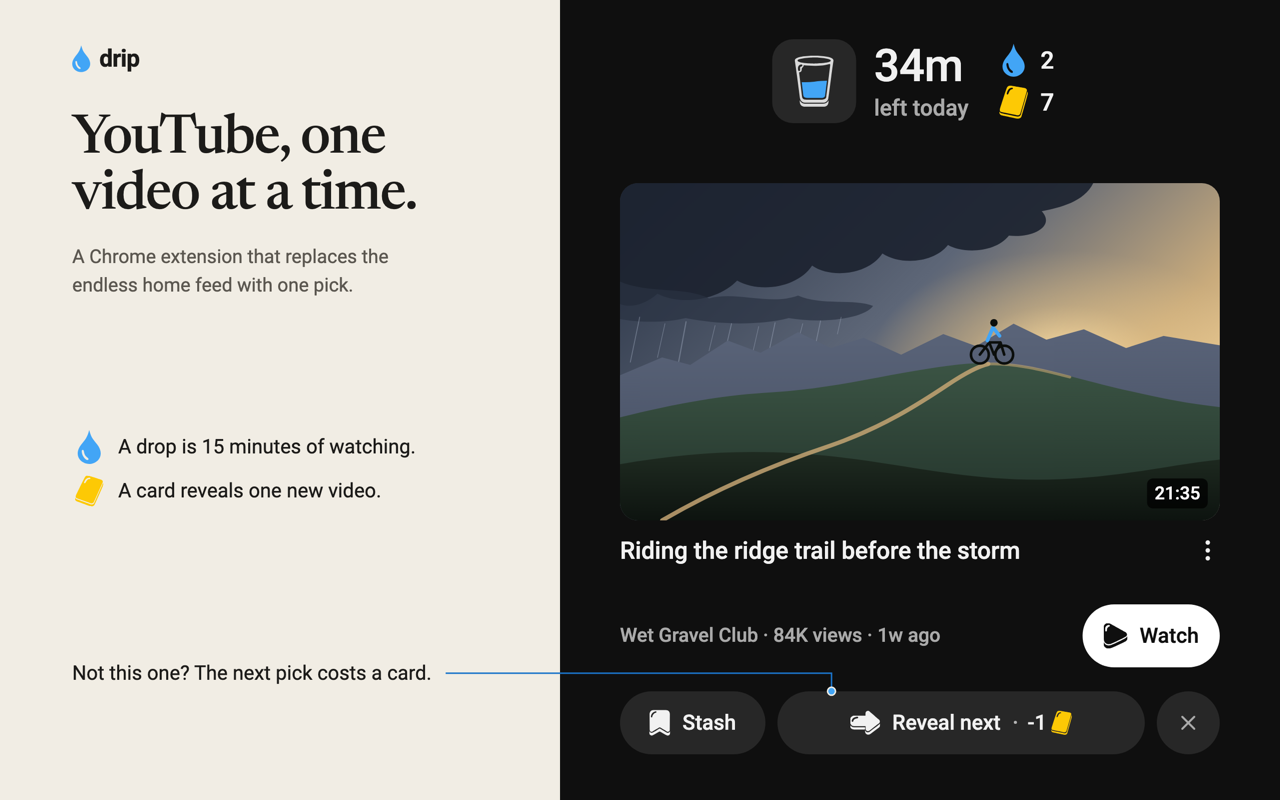
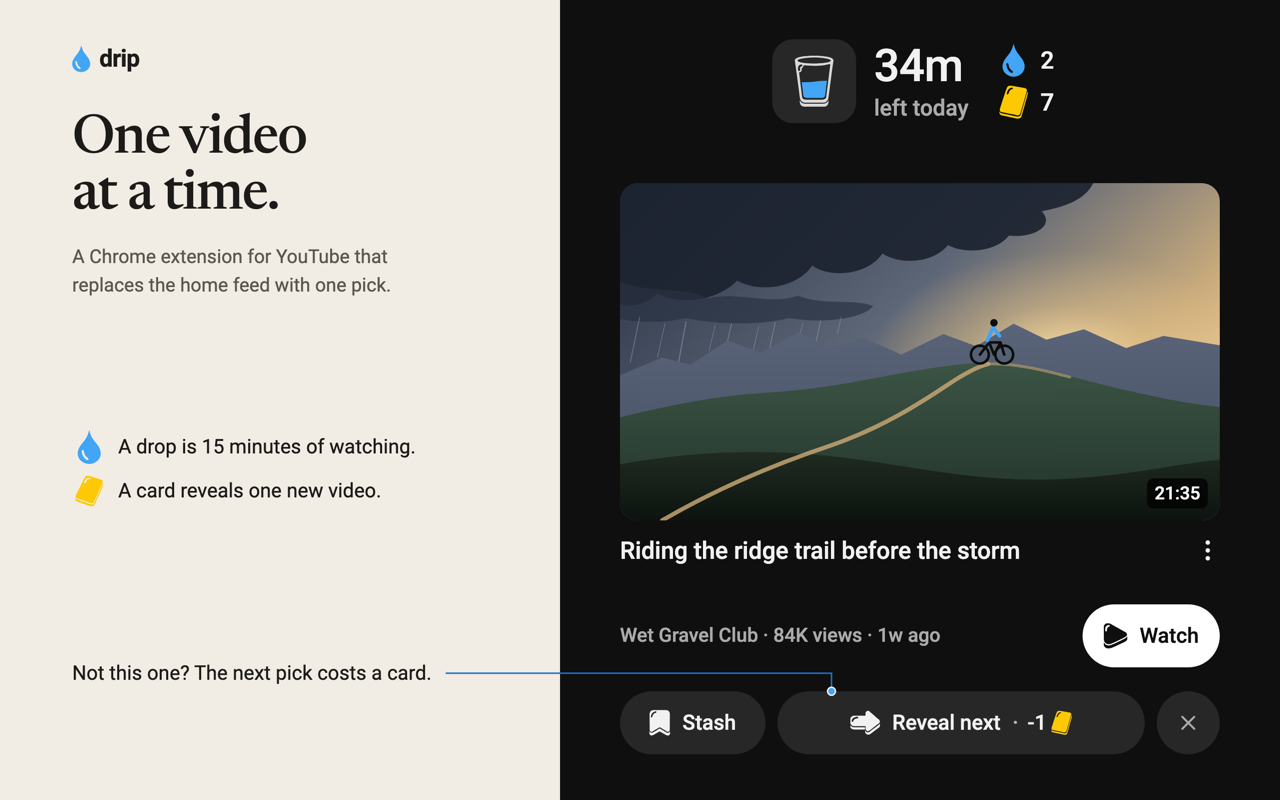
Store images: council pre-flight with round 13's agreed fixes
One video at a time as 1's headline, with YouTube in the subline. 4 says the 4-to-5 change once. 3's leader dot sits between the card border and the radio. 5 loses the Unlocks note. Leaders start past a note's longest line.

Claude-Session: https://claude.ai/code/session_01BaVsJg78QBgFX9FYqzaUSR

Changed region(s): [[0.0312, 0.125, 0.3125, 0.2812], [0.0625, 0.3125, 0.3125, 0.375]]

diff --git a/store/art/frames-v2.html b/store/art/frames-v2.html
@@ -71,18 +71,19 @@
    * scale), CSS to put in the page, what has to exist before the step runs, an optional step, and notes. A note
    * names its target by selector or by exact text, and sits in the left column at the target's height when there's
    * room.
-   * @typedef {{sel?: string, text?: string, say: string, top?: boolean, under?: boolean, above?: number, at?: number}} Note
+   * @typedef {{sel?: string, text?: string, say: string, top?: boolean, under?: boolean, above?: number, at?: number, gap?: number}} Note
    * A note with `at` has no target: it sits at that height with no leader, for a line about the whole page. One with
    * `under` sits below its target and reaches up to the target's bottom edge with a right-angled leader, for a target
    * whose row has other things to its left. One with `above` sits level with the gap that many page pixels over its
    * target and drops straight down onto the target's top edge, for a target with a row above it and others to its left.
+   * `gap` sets how far short of a side target the leader stops (12px by default).
    * A shot's legend sits under the caption with no leader: drip's own drop and card, and what each one is.
    * @type {Record<string, {h: string, p: string, src: string, w: number, h2: number, x: number, y: number, scale: number, motion?: boolean, css?: string, ready: string, step?: (d: Document) => void, notes?: Note[], legend?: boolean, bg?: string, water?: number, legendY?: number, foot?: string}>}
    */
   const SHOTS = {
     1: {
-      h: 'YouTube, one\nvideo at a time.',
-      p: 'A Chrome extension that replaces the\nendless home feed with one pick.',
+      h: 'One video\nat a time.',
+      p: 'A Chrome extension for YouTube that\nreplaces the home feed with one pick.',
       src: '/dev/home.html?scenario=card&theme=dark&reduced=1&videos=store',
       w: 620, h2: 656, x: -105, y: -180, scale: 1.5,
       css: '#masthead, #harness-bar { visibility: hidden !important; }',
@@ -162,13 +163,13 @@
       css: '.hero { visibility: hidden !important; }',
       ready: 'input[type=radio], [role=radio]',
       notes: [
-        { sel: '[data-mode=full] .dot', say: 'The default: 4 drops\nand 10 cards a day.' },
+        { sel: '[data-mode=full] .dot', gap: 8, say: 'The default: 4 drops\nand 10 cards a day.' },
         { text: 'Customize', say: 'Or set your own mix.' },
       ],
     },
     4: {
       h: 'Easy to tighten.\nSlow to loosen.',
-      p: 'Stricter settings apply now.\nLooser ones wait for the 4am reset.',
+      p: 'Stricter settings apply now.\nLooser ones wait for the daily reset.',
       src: '/dev/page.html?page=options&settled=1&sample=1&pending=1',
       // From the tabs through Dry hours' end time. The page's own "drip" title repeats the mark, so it's hidden. The
       // sample raised drops from 4 to 5, so the row shows the waiting change.
@@ -177,7 +178,7 @@
       ready: '[role=tab]',
       step: (d) => setTimeout(() => d.scrollingElement?.scrollTo(0, 0), 300),
       notes: [
-        { text: 'Drops per day', say: 'Set to 5 drops.\nStays at 4 until 4am.' },
+        { text: 'Drops per day', say: 'Raised to 5 drops.\nStill 4 until 4:00am.' },
         { text: 'Dry hours', say: 'Add dry hours and\nthey start tonight.' },
       ],
     },
@@ -203,7 +204,6 @@
       },
       notes: [
         { text: 'Saturday, Nov 7', say: 'Pick a day to see\nits drops and cards.' },
-        { sel: '.tile:has(.tile-lock)', say: 'Unlocks are "I need this one"\npasses, 3 a week by default.', above: 11 },
       ],
     },
   };
@@ -258,7 +258,7 @@
       // A note points at the target's left edge, 12px clear of it; with top set, at its top edge near the left; with
       // under set, at its bottom edge near the left, from a note below it.
       const corner = n.top || n.under || n.above !== undefined;
-      const tx = PANEL_LEFT + shot.x + (corner ? r.left + 36 : r.left) * shot.scale - (corner ? 0 : 12);
+      const tx = PANEL_LEFT + shot.x + (corner ? r.left + 36 : r.left) * shot.scale - (corner ? 0 : n.gap ?? 12);
       const edge = n.top ? r.top - 8 / shot.scale : n.under ? r.bottom : n.above !== undefined ? r.top : r.top + r.height / 2;
       const ty = shot.y + edge * shot.scale;
       return { n, tx, ty };
@@ -296,12 +296,16 @@
     }
   }
 
-  /** The width of a note's first line of text. @param {HTMLElement} note */
+  /**
+   * The width of a note's longest line, so its leader starts past all of its text. Round 14: it measured the first line
+   * only, and a longer second line ran into the leader.
+   * @param {HTMLElement} note
+   */
   function measure(note) {
     const range = document.createRange();
     range.selectNodeContents(note);
     const rects = [...range.getClientRects()];
-    return rects.length ? Math.max(...rects.filter((q) => Math.abs(q.top - rects[0].top) < 2).map((q) => q.right)) - 72 : 380;
+    return rects.length ? Math.max(...rects.map((q) => q.right)) - 72 : 380;
   }
 
   if (shot) {
